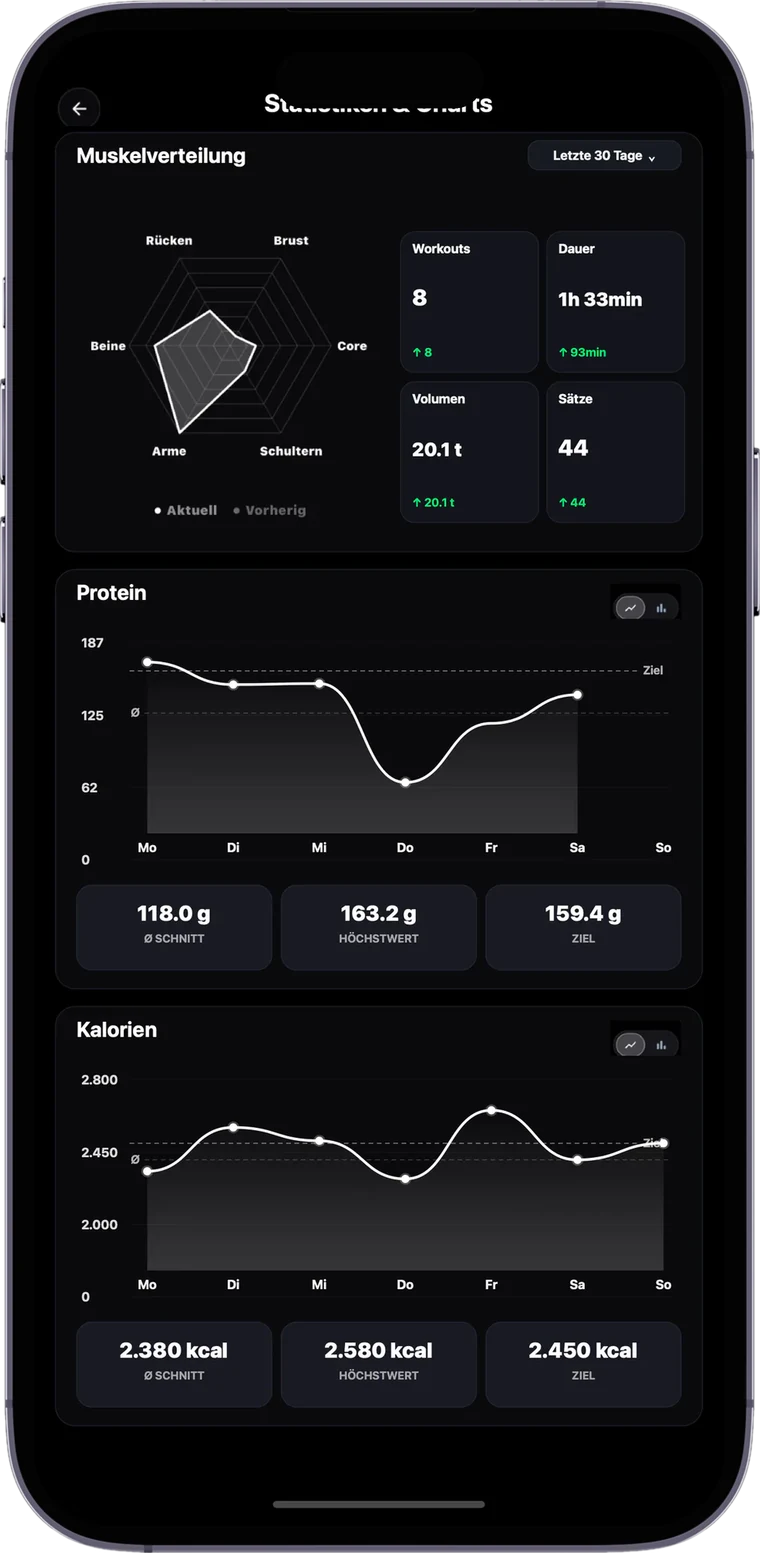
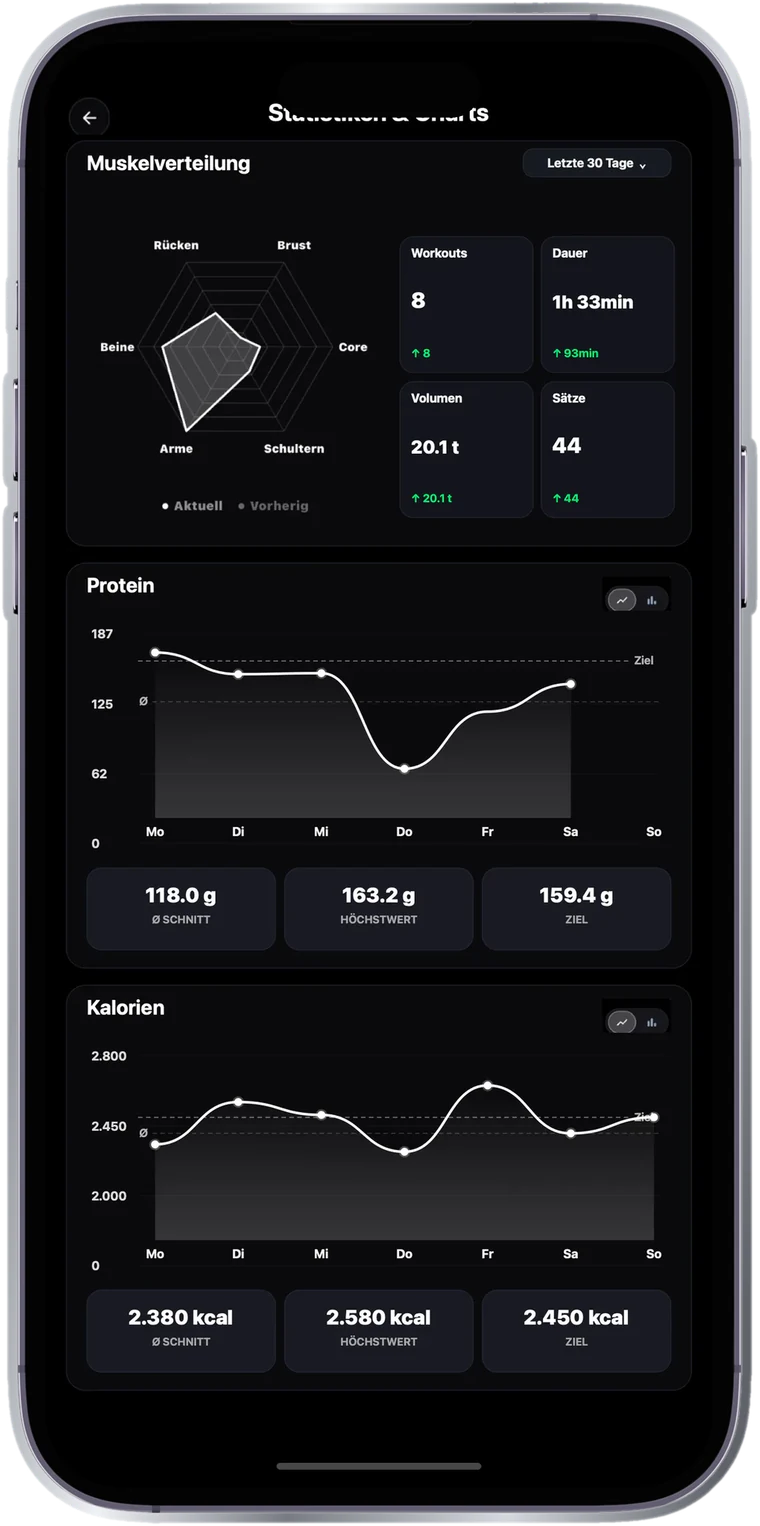
Handys: Titan-Rahmen wie in den Canva-Bildern

diff --git a/index.html b/index.html
@@ -18,18 +18,18 @@
 <p class="lead">Ajolo ersetzt den Wechsel zwischen Workout-Log, Kalorienzähler und Habit-Tracker. Deine Daten bleiben auf deinem Gerät, ein Konto brauchst du nicht.</p>
 <div id="download"><div class="stores "><a href="https://apps.apple.com/app/id6806333157" rel="noopener"><img src="/assets/badge-appstore.svg" width="120" height="40" alt="Laden im App Store" style="height:48px;width:auto"></a><a href="https://play.google.com/store/apps/details?id=com.ajolo.app" rel="noopener"><img src="/assets/badge-play.png" width="646" height="250" alt="Jetzt bei Google Play" style="height:64px;width:auto;margin:-8px 0"></a></div></div>
 <p class="note">Kostenlos laden. Ajolo Pro ist optional (In-App-Kauf). Für iPhone, iPad und Android ab 16 Jahren.</p>
-</div><div class="stage3"><img class="pp l" src="/assets/phone_routinen_s.webp" srcset="/assets/phone_routinen_s.webp 420w, /assets/phone_routinen.webp 760w" sizes="(max-width:860px) 70vw, 320px" width="760" height="1553" alt="Routinen-Tracker mit Tagesplan in der Ajolo-App"><img class="pp r" src="/assets/phone_streak_s.webp" srcset="/assets/phone_streak_s.webp 420w, /assets/phone_streak.webp 760w" sizes="(max-width:860px) 70vw, 320px" width="760" height="1553" alt="Streak mit Serienkalender in der Ajolo-App"><img class="pp c" src="/assets/phone_ernaehrung_s.webp" srcset="/assets/phone_ernaehrung_s.webp 420w, /assets/phone_ernaehrung.webp 760w" sizes="(max-width:860px) 70vw, 320px" width="760" height="1553" alt="Tagesübersicht mit Kalorienring und Makros in der Ajolo-App"></div></div></section>
+</div><div class="stage3"><img class="pp l" src="/assets/phone_routinen_s.webp?v=3" srcset="/assets/phone_routinen_s.webp?v=3 420w, /assets/phone_routinen.webp?v=3 760w" sizes="(max-width:860px) 70vw, 320px" width="760" height="1526" alt="Routinen-Tracker mit Tagesplan in der Ajolo-App"><img class="pp r" src="/assets/phone_streak_s.webp?v=3" srcset="/assets/phone_streak_s.webp?v=3 420w, /assets/phone_streak.webp?v=3 760w" sizes="(max-width:860px) 70vw, 320px" width="760" height="1526" alt="Streak mit Serienkalender in der Ajolo-App"><img class="pp c" src="/assets/phone_ernaehrung_s.webp?v=3" srcset="/assets/phone_ernaehrung_s.webp?v=3 420w, /assets/phone_ernaehrung.webp?v=3 760w" sizes="(max-width:860px) 70vw, 320px" width="760" height="1526" alt="Tagesübersicht mit Kalorienring und Makros in der Ajolo-App"></div></div></section>
 <div class="facts"><div class="wrap"><ul><li><b>1.394</b><span>Übungen mit Video</span></li><li><b>100</b><span>Rezepte</span></li><li><b>17</b><span>Muskelgruppen in 3D</span></li><li><b>22</b><span>Rangstufen</span></li></ul></div></div>
 <section id="funktionen"><div class="wrap"><p class="eyebrow">Funktionen</p><h2>Drei Bereiche, ein Ablauf</h2><p class="lead">Routinen, Gym und Ernährung laufen in derselben App. Was du nicht brauchst, blendest du in den Einstellungen aus.</p>
 <div class="feat"><div class="txt"><h3>Gym</h3><p>Du startest ein leeres Workout oder eine Routine, trägst Sätze ein und siehst die Werte vom letzten Mal. Der Pausentimer läuft von selbst.</p>
-<ul><li>Satztypen: Normal, Aufwärmsatz, Drop-Satz, Muskelversagen, dazu RPE und Supersets</li><li>1.394 Übungen mit Video, eigene Übungen möglich</li><li>10 fertige Pläne und ein Plan nach deinen Angaben, berechnet auf dem Gerät</li><li>Puls per Bluetooth-Gurt, Apple Health oder Health Connect</li></ul></div><div class="vis"><img class="pp " src="/assets/phone_training_s.webp" srcset="/assets/phone_training_s.webp 420w, /assets/phone_training.webp 760w" sizes="(max-width:860px) 70vw, 320px" width="760" height="1553" alt="Workout mit Sätzen, Gewichten und Pausentimer" loading="lazy"></div></div>
-<div class="feat rev"><div class="txt"><h3>Muskelstatus in 3D</h3><p>Ein Körpermodell zeigt vorne und hinten, welche der 17 Muskelgruppen erholt sind und welche du zuletzt trainiert hast. Dazu kommen Ränge pro Muskel und ein Rang-Rechner.</p></div><div class="vis"><img class="pp " src="/assets/phone_muskelstatus_s.webp" srcset="/assets/phone_muskelstatus_s.webp 420w, /assets/phone_muskelstatus.webp 760w" sizes="(max-width:860px) 70vw, 320px" width="760" height="1553" alt="3D-Körpermodell mit Erholungsstatus der Muskelgruppen" loading="lazy"></div></div>
+<ul><li>Satztypen: Normal, Aufwärmsatz, Drop-Satz, Muskelversagen, dazu RPE und Supersets</li><li>1.394 Übungen mit Video, eigene Übungen möglich</li><li>10 fertige Pläne und ein Plan nach deinen Angaben, berechnet auf dem Gerät</li><li>Puls per Bluetooth-Gurt, Apple Health oder Health Connect</li></ul></div><div class="vis"><img class="pp " src="/assets/phone_training_s.webp?v=3" srcset="/assets/phone_training_s.webp?v=3 420w, /assets/phone_training.webp?v=3 760w" sizes="(max-width:860px) 70vw, 320px" width="760" height="1526" alt="Workout mit Sätzen, Gewichten und Pausentimer" loading="lazy"></div></div>
+<div class="feat rev"><div class="txt"><h3>Muskelstatus in 3D</h3><p>Ein Körpermodell zeigt vorne und hinten, welche der 17 Muskelgruppen erholt sind und welche du zuletzt trainiert hast. Dazu kommen Ränge pro Muskel und ein Rang-Rechner.</p></div><div class="vis"><img class="pp " src="/assets/phone_muskelstatus_s.webp?v=3" srcset="/assets/phone_muskelstatus_s.webp?v=3 420w, /assets/phone_muskelstatus.webp?v=3 760w" sizes="(max-width:860px) 70vw, 320px" width="760" height="1526" alt="3D-Körpermodell mit Erholungsstatus der Muskelgruppen" loading="lazy"></div></div>
 <div class="feat"><div class="txt"><h3>Ernährung</h3><p>Du trägst Mahlzeiten ein, scannst Barcodes oder fotografierst dein Essen. Kalorien und Makros siehst du pro Tag, dazu Wasser und Schritte.</p>
-<ul><li>Foto-Scan und Spracheingabe: Ajolo schätzt Nährwerte, du kannst alles korrigieren</li><li>Barcode-Scanner, Favoriten, eigene Produkte und Rezepte</li><li>100 Rezepte nach Mahlzeit sortiert</li><li>Kalorienbedarf nach Mifflin-St-Jeor</li></ul></div><div class="vis"><img class="pp " src="/assets/phone_ernaehrung_s.webp" srcset="/assets/phone_ernaehrung_s.webp 420w, /assets/phone_ernaehrung.webp 760w" sizes="(max-width:860px) 70vw, 320px" width="760" height="1553" alt="Tagesübersicht mit Kalorienring, Makros und Mahlzeiten" loading="lazy"></div></div>
-<div class="feat rev"><div class="txt"><h3>Foto-Scan fürs Essen</h3><p>Du fotografierst dein Gericht, Ajolo zerlegt es in Zutaten und schätzt Kalorien und Makros. Du wählst „Einzelne Zutaten“ oder „Gesamtgericht“, kannst einen Hinweis ergänzen und jeden Wert korrigieren.</p><ul><li>Mit Pro bis zu 10 Foto-Scans und 10 Spracheingaben pro Tag</li><li>Das Foto wird vorher verkleinert und an die Google Gemini API gesendet</li></ul></div><div class="vis"><img class="pp " src="/assets/phone_ki_scan_s.webp" srcset="/assets/phone_ki_scan_s.webp 420w, /assets/phone_ki_scan.webp 760w" sizes="(max-width:860px) 70vw, 320px" width="760" height="1553" alt="KI-Foto-Scan mit erkannten Zutaten und Makros" loading="lazy"></div></div>
-<div class="feat"><div class="txt"><h3>Rezepte</h3><p>100 Rezepte für Frühstück, Mittag, Abend, Snacks und Shakes. Du filterst nach Mahlzeit und übernimmst ein Rezept mit einem Tipp ins Tagebuch.</p></div><div class="vis"><img class="pp " src="/assets/phone_rezepte_s.webp" srcset="/assets/phone_rezepte_s.webp 420w, /assets/phone_rezepte.webp 760w" sizes="(max-width:860px) 70vw, 320px" width="760" height="1553" alt="Rezepte-Feed mit Mahlzeitenfiltern" loading="lazy"></div></div>
-<div class="feat rev"><div class="txt"><h3>Routinen und Streaks</h3><p>Gewohnheiten legst du täglich, für bestimmte Wochentage oder als „x-mal pro Woche“ an. Jeder Tag ist erledigt, übersprungen oder fehlgeschlagen. Die Serie zeigt dir, wie lange du dranbleibst.</p></div><div class="vis"><img class="pp " src="/assets/phone_streak_s.webp" srcset="/assets/phone_streak_s.webp 420w, /assets/phone_streak.webp 760w" sizes="(max-width:860px) 70vw, 320px" width="760" height="1553" alt="Streak mit Serienkalender" loading="lazy"></div></div>
-<div class="feat"><div class="txt"><h3>Statistiken</h3><p>Kalorien, Wasser, Makros und Schritte als Diagramme über Woche, Monat oder Jahr. Im Gym-Bereich siehst du Konsistenz, Muskelverteilung, Messungen und Fortschrittsfotos.</p></div><div class="vis"><img class="pp " src="/assets/phone_statistiken_s.webp" srcset="/assets/phone_statistiken_s.webp 420w, /assets/phone_statistiken.webp 760w" sizes="(max-width:860px) 70vw, 320px" width="760" height="1553" alt="Statistiken mit Radar-Diagramm sowie Protein- und Kalorienverlauf" loading="lazy"></div></div>
+<ul><li>Foto-Scan und Spracheingabe: Ajolo schätzt Nährwerte, du kannst alles korrigieren</li><li>Barcode-Scanner, Favoriten, eigene Produkte und Rezepte</li><li>100 Rezepte nach Mahlzeit sortiert</li><li>Kalorienbedarf nach Mifflin-St-Jeor</li></ul></div><div class="vis"><img class="pp " src="/assets/phone_ernaehrung_s.webp?v=3" srcset="/assets/phone_ernaehrung_s.webp?v=3 420w, /assets/phone_ernaehrung.webp?v=3 760w" sizes="(max-width:860px) 70vw, 320px" width="760" height="1526" alt="Tagesübersicht mit Kalorienring, Makros und Mahlzeiten" loading="lazy"></div></div>
+<div class="feat rev"><div class="txt"><h3>Foto-Scan fürs Essen</h3><p>Du fotografierst dein Gericht, Ajolo zerlegt es in Zutaten und schätzt Kalorien und Makros. Du wählst „Einzelne Zutaten“ oder „Gesamtgericht“, kannst einen Hinweis ergänzen und jeden Wert korrigieren.</p><ul><li>Mit Pro bis zu 10 Foto-Scans und 10 Spracheingaben pro Tag</li><li>Das Foto wird vorher verkleinert und an die Google Gemini API gesendet</li></ul></div><div class="vis"><img class="pp " src="/assets/phone_ki_scan_s.webp?v=3" srcset="/assets/phone_ki_scan_s.webp?v=3 420w, /assets/phone_ki_scan.webp?v=3 760w" sizes="(max-width:860px) 70vw, 320px" width="760" height="1526" alt="KI-Foto-Scan mit erkannten Zutaten und Makros" loading="lazy"></div></div>
+<div class="feat"><div class="txt"><h3>Rezepte</h3><p>100 Rezepte für Frühstück, Mittag, Abend, Snacks und Shakes. Du filterst nach Mahlzeit und übernimmst ein Rezept mit einem Tipp ins Tagebuch.</p></div><div class="vis"><img class="pp " src="/assets/phone_rezepte_s.webp?v=3" srcset="/assets/phone_rezepte_s.webp?v=3 420w, /assets/phone_rezepte.webp?v=3 760w" sizes="(max-width:860px) 70vw, 320px" width="760" height="1526" alt="Rezepte-Feed mit Mahlzeitenfiltern" loading="lazy"></div></div>
+<div class="feat rev"><div class="txt"><h3>Routinen und Streaks</h3><p>Gewohnheiten legst du täglich, für bestimmte Wochentage oder als „x-mal pro Woche“ an. Jeder Tag ist erledigt, übersprungen oder fehlgeschlagen. Die Serie zeigt dir, wie lange du dranbleibst.</p></div><div class="vis"><img class="pp " src="/assets/phone_streak_s.webp?v=3" srcset="/assets/phone_streak_s.webp?v=3 420w, /assets/phone_streak.webp?v=3 760w" sizes="(max-width:860px) 70vw, 320px" width="760" height="1526" alt="Streak mit Serienkalender" loading="lazy"></div></div>
+<div class="feat"><div class="txt"><h3>Statistiken</h3><p>Kalorien, Wasser, Makros und Schritte als Diagramme über Woche, Monat oder Jahr. Im Gym-Bereich siehst du Konsistenz, Muskelverteilung, Messungen und Fortschrittsfotos.</p></div><div class="vis"><img class="pp " src="/assets/phone_statistiken_s.webp?v=3" srcset="/assets/phone_statistiken_s.webp?v=3 420w, /assets/phone_statistiken.webp?v=3 760w" sizes="(max-width:860px) 70vw, 320px" width="760" height="1526" alt="Statistiken mit Radar-Diagramm sowie Protein- und Kalorienverlauf" loading="lazy"></div></div>
 <div class="grid"><div><h3>Health-Daten</h3><p>Schritte, Aktivkalorien, Distanz und Puls liest Ajolo aus Apple Health oder Health Connect. Geschrieben wird nichts.</p></div><div><h3>Widgets</h3><p>Fünf Widgets auf iOS und Android für Streak, Ernährung und mehr.</p></div><div><h3>Fortschrittsfotos</h3><p>Neun Posen, Vorher-nachher-Vergleich und ein Zeitraffer-Video.</p></div><div><h3>Teilen</h3><p>Workouts exportierst du als Datei und schickst sie an Freunde.</p></div><div><h3>Eigene Übungen</h3><p>Fehlt dir eine Übung, legst du sie selbst an, mit Gewicht, Zeit oder Cardio als Messart.</p></div><div><h3>Deutsch und Englisch</h3><p>Die App folgt deiner Sprache, Fallback ist Deutsch.</p></div></div>
 </div></section>
 <section id="raenge" style="border-top:1px solid var(--line)"><div class="wrap"><p class="eyebrow">Ränge</p><h2>Acht Ränge, drei Wege nach oben</h2><p class="lead">Gym, Ernährung und Routinen haben je eine eigene Rangleiter. Jede Stufe gibt es dreimal, von Eisen bis Master. Ganz oben steht Ajolo Elite.</p>
